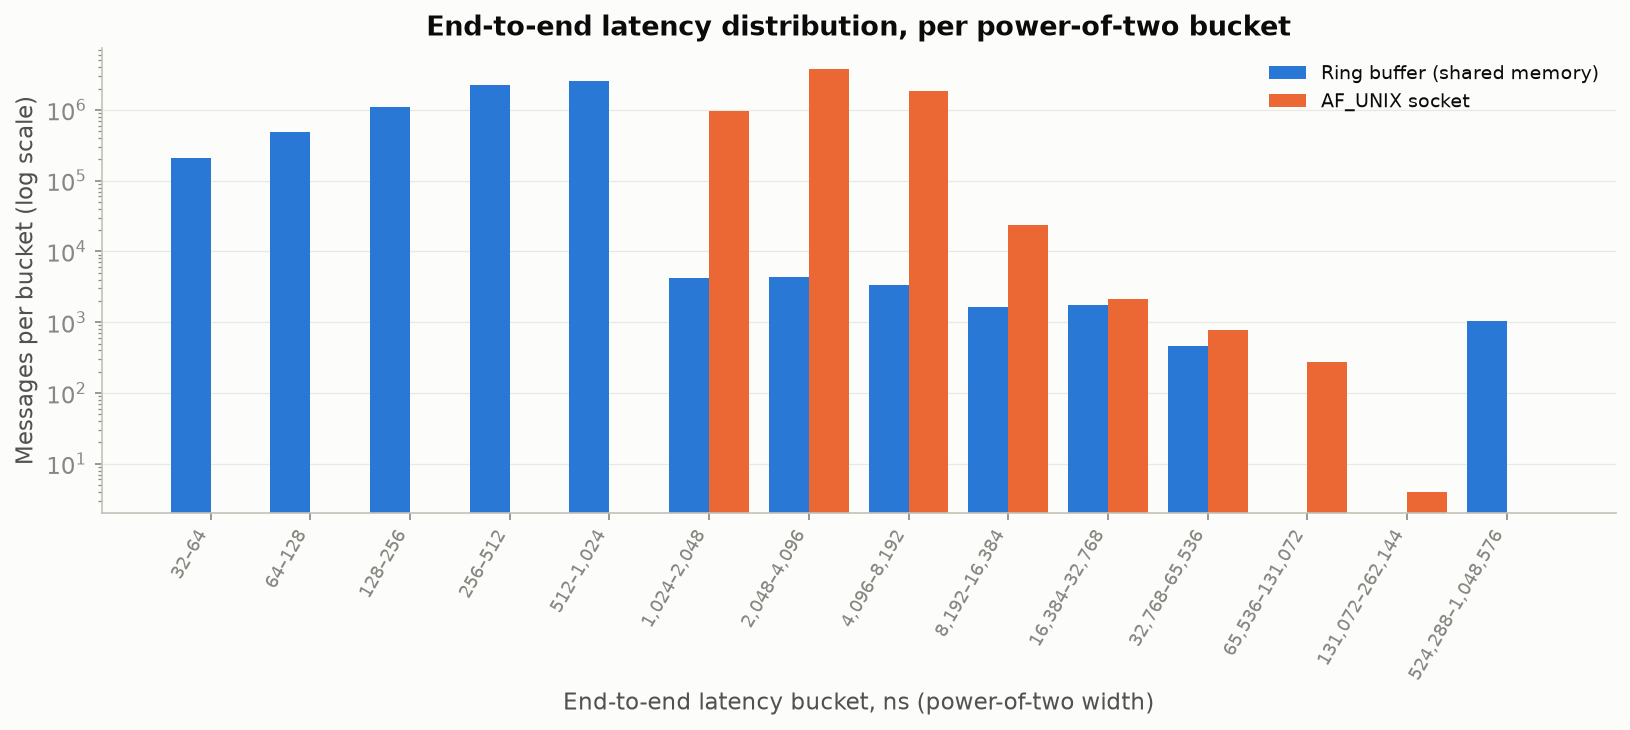
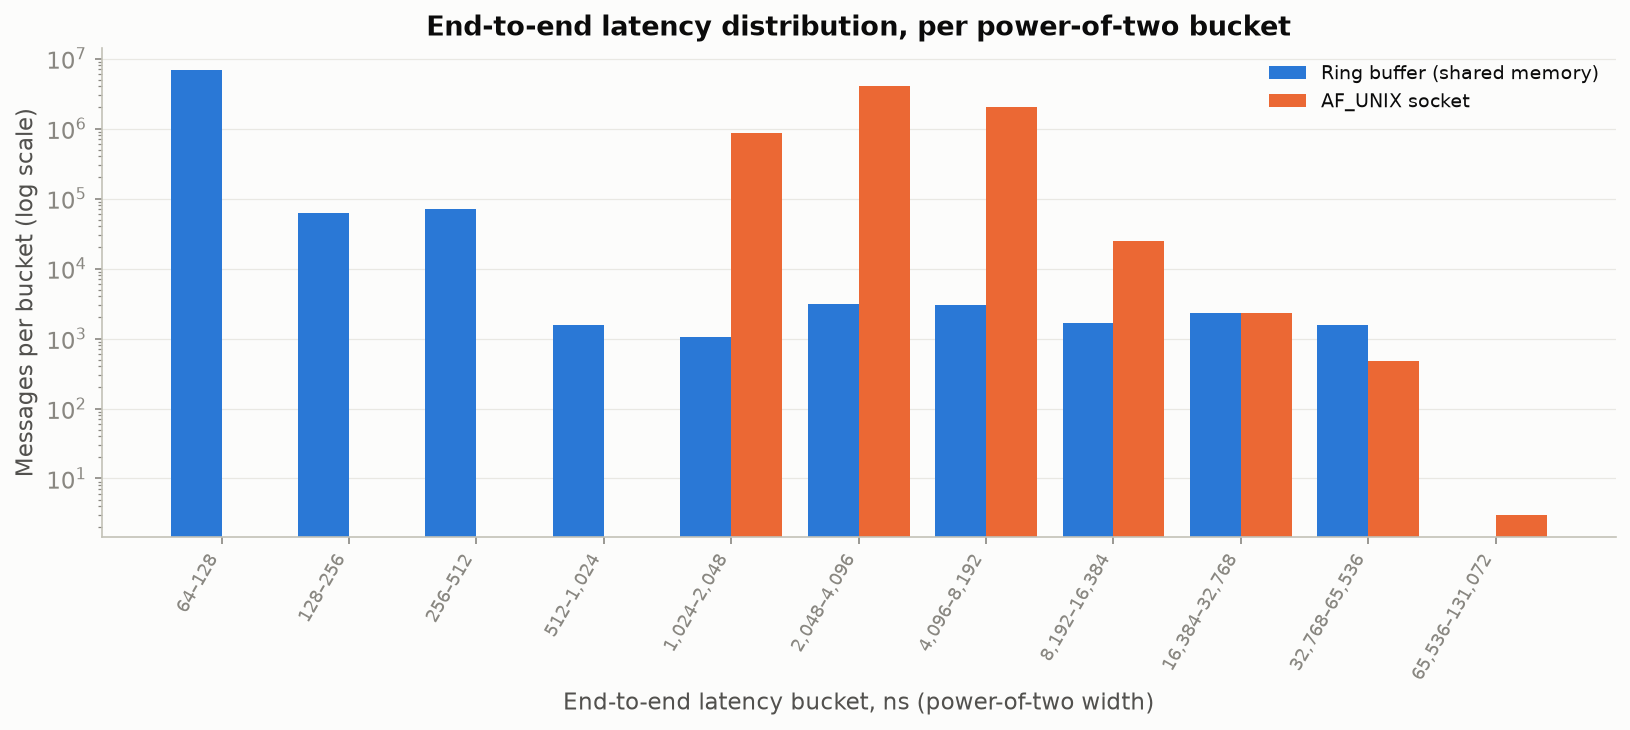
feat: add core isolation to benchmarking

diff --git a/README.md b/README.md
@@ -97,19 +97,39 @@ and socket names as the benchmark, so don't run the two at the same time.
 
 Run `bash download_data.sh` first to fetch the NASDAQ sample feed into `data/`.
 
-`bench/run_ipc_comparison.sh` builds all four IPC binaries, runs each
-transport's producer/consumer pair pinned to separate cores via `taskset`,
-cross-checks that published and received message counts match, and writes
-`bench/results/ipc_summary.csv` plus per-bucket histograms. It drives the
-producers in file mode, keeping the benchmark isolated to the transport
-comparison rather than ingestion cost.
+### Standard benchmark
+
+`bench/run_ipc_isolated.sh` is the standard benchmarking method. It enables CPU
+core isolation to reduce latency variance from scheduler noise and frequency
+scaling, runs both transport benchmarks, then restores the system to baseline.
+Requires root.
+
+```bash
+sudo bash bench/run_ipc_isolated.sh
+```
+
+Core isolation includes:
+- Disabling CPU frequency scaling (performance governor)
+- Adjusting scheduler settings for latency predictability
+- Redirecting system IRQs away from isolated cores
+- Disabling C-state power management
+
+Results are written to `bench/results/ipc_summary.csv` plus per-bucket histograms.
+
+### Baseline benchmark (no isolation)
+
+For comparison or on systems where root is unavailable:
 
 ```bash
 bash bench/run_ipc_comparison.sh
 ```
 
-`bench/benchmark_plots.ipynb` reads those CSVs and regenerates the graphs
-below into `bench/plots/`:
+This pins producer/consumer to separate cores via `taskset` but does not apply
+system-level isolation, so results will include scheduler noise and frequency-scaling variance.
+
+### Visualization
+
+Generate latency and throughput plots from benchmark results:
 
 ```bash
 jupyter nbconvert --to notebook --execute --inplace bench/benchmark_plots.ipynb
@@ -117,14 +137,9 @@ jupyter nbconvert --to notebook --execute --inplace bench/benchmark_plots.ipynb
 
 ## Results
 
-Same 200MB ITCH slice, 6,609,340 messages published end to end (published
+Same 200MB ITCH slice, 6,948,075 messages published end to end (published
 and received counts matched exactly — neither transport drops messages),
 producer and consumer pinned to separate cores.
-
-These results predate the transport and normalisation fixes and are due to be
-re-measured. The current code also publishes `U` and `C` messages, so the
-same slice now yields 6,948,075 messages; the ring producer also no longer
-publishes before its consumer has attached.
 
 ![End-to-end latency percentiles and sustained throughput, ring buffer vs. AF_UNIX socket](bench/plots/ipc_summary.png)
 
@@ -132,10 +147,6 @@ The ring buffer holds an **8×** latency advantage at p50/p95/p99 and a
 **~29×** throughput advantage. This tracks the design: the ring buffer path
 is one shared-memory write with no syscall, while the socket path pays a
 `send()`/`recv()` syscall pair and two kernel-mediated copies per message.
-(`max` is omitted — it ranged from ~94µs to over 1ms for *both* transports.
-Part of that was scheduler noise from having no core isolation; for the ring
-buffer it also included a startup backlog of ~1,024 messages stamped before
-the consumer attached, which the handshake has since removed.)
 
 ![Full end-to-end latency distribution, per power-of-two bucket, ring buffer vs. AF_UNIX socket](bench/plots/ipc_latency_distribution.png)
 
